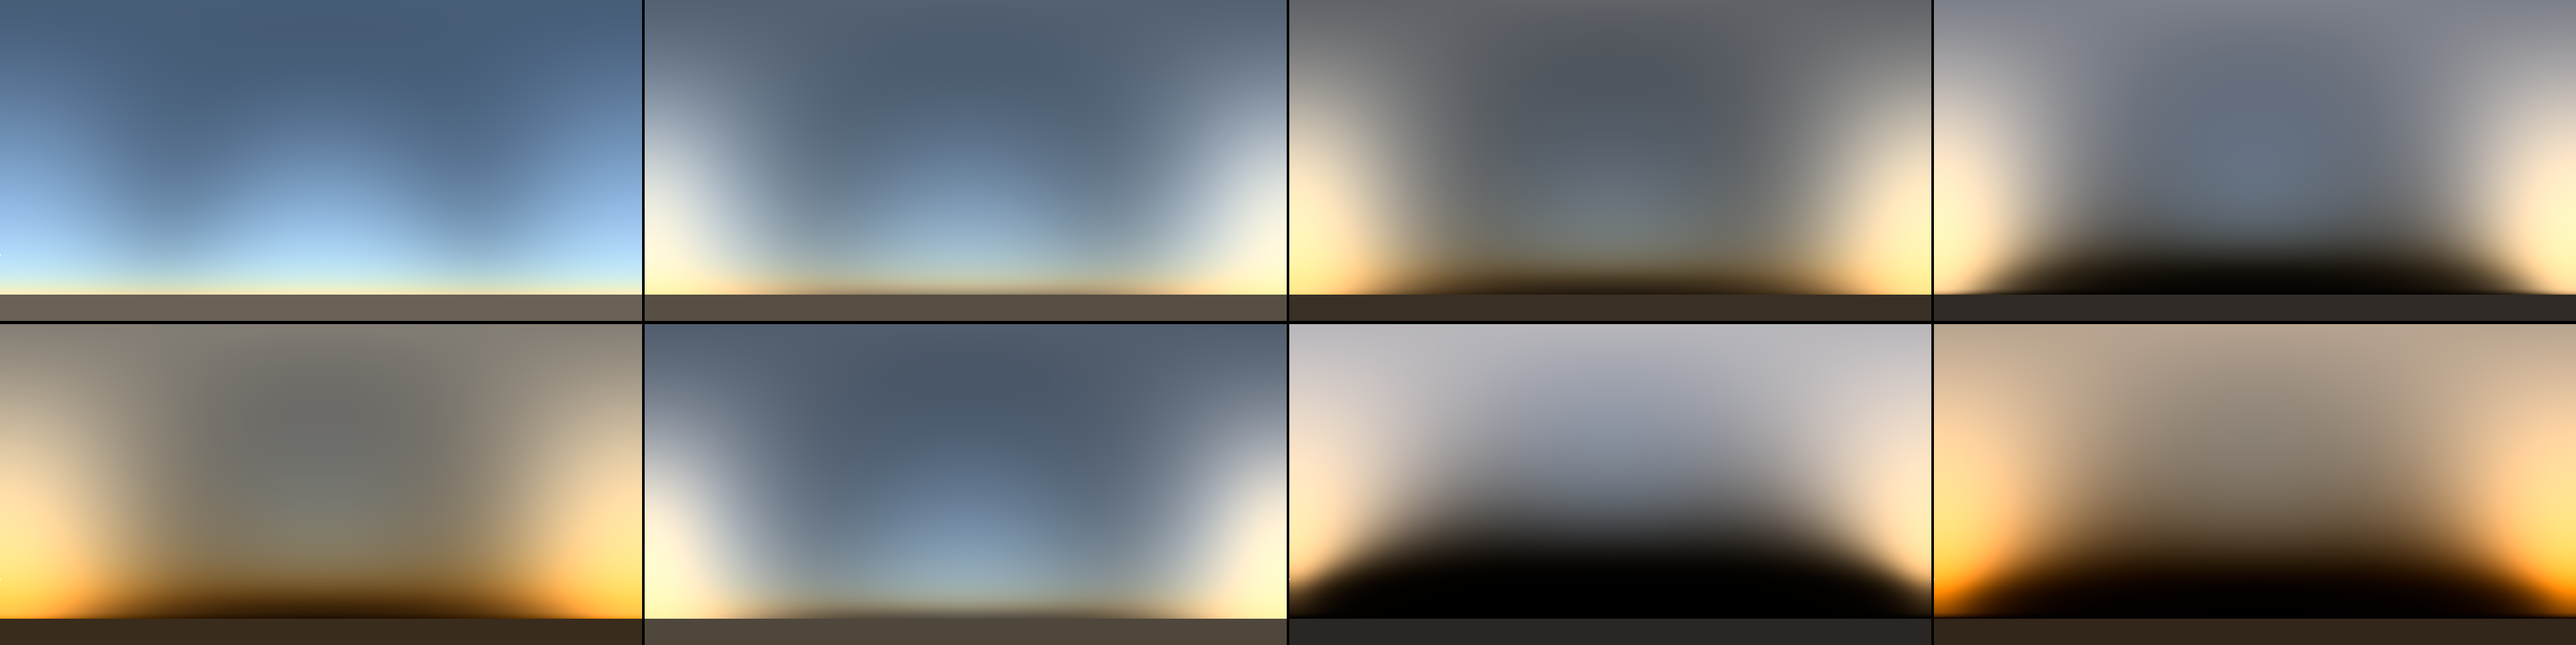
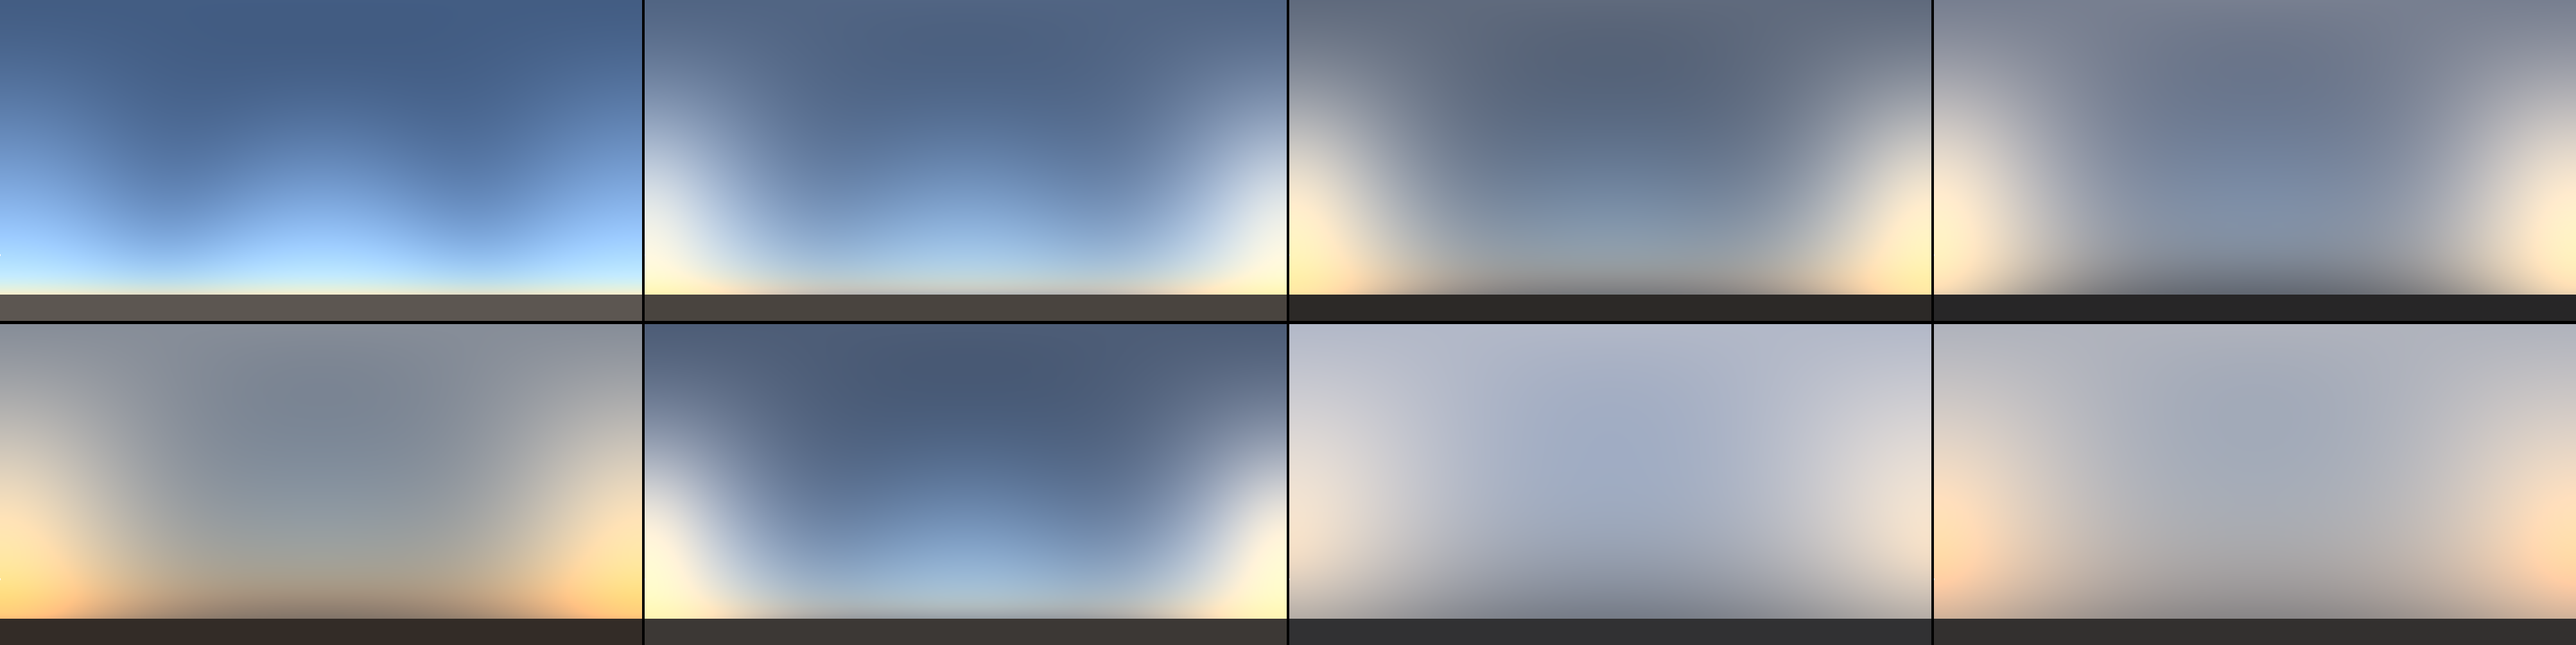
Extend the atmosphere to 200 km with a thermospheric tail; add the main report

diff --git a/skycolor/atmosphere.py b/skycolor/atmosphere.py
@@ -98,8 +98,16 @@ DEFAULT_Z_BOUNDS = np.array([
     8.0, 9.0, 10.0, 11.0, 12.0, 13.0, 14.0, 15.0, 16.0, 17.0, 18.0, 19.0,
     20.0, 21.5, 23.0, 25.0, 27.0, 29.0, 31.0, 33.0, 35.0, 38.0, 41.0, 44.0,
     47.0, 50.0, 53.0, 56.0, 60.0, 65.0, 70.0, 75.0, 80.0, 85.0, 90.0, 95.0,
-    100.0, 105.0, 110.0, 115.0, 120.0,
+    100.0, 105.0, 110.0, 115.0, 120.0, 125.0, 130.0, 135.0, 140.0, 150.0, 160.0,
+    175.0, 200.0,
 ])
+
+#: Above the US76 range the thermosphere is hot and tenuous; a simple
+#: exponential tail with this scale height reproduces the observed density
+#: (10^17 m^-3 at 120 km, ~10^14 at 200 km) well enough for twilight, whose
+#: light below about -10 deg solar elevation comes from these altitudes.
+THERMOSPHERE_SCALE_HEIGHT_KM = 15.0
+THERMOSPHERE_START_KM = 120.0
 
 
 # ---------------------------------------------------------------------------
@@ -113,13 +121,14 @@ _O3_PROFILE = np.array([
     [35.0, 2.4e12], [38.0, 1.6e12], [40.0, 1.1e12], [42.0, 7.5e11],
     [45.0, 5.0e11], [48.0, 3.2e11], [50.0, 2.2e11], [55.0, 1.0e11],
     [60.0, 5.0e10], [70.0, 1.5e10], [80.0, 5.0e9], [120.0, 1.0e9],
+    [200.0, 1.0e7],
 ])
 
 #: stratospheric NO2 number density [molecules cm^-3] vs height [km]
 _NO2_PROFILE = np.array([
     [0.0, 1.0e9], [10.0, 2.0e9], [15.0, 5.0e9], [20.0, 1.2e10],
     [25.0, 1.5e10], [30.0, 1.2e10], [35.0, 7.0e9], [40.0, 3.0e9],
-    [50.0, 8.0e8], [60.0, 2.0e8], [120.0, 1.0e7],
+    [50.0, 8.0e8], [60.0, 2.0e8], [120.0, 1.0e7], [200.0, 1.0e5],
 ])
 
 
@@ -350,8 +359,13 @@ class Atmosphere:
         return us76_temperature(np.asarray(z_km, dtype=float))
 
     def n_air(self, z_km):
-        """Dry-air number density [m^-3]."""
-        return self.pressure(z_km) / (1.380649e-23 * self.temperature(z_km))
+        """Dry-air number density [m^-3], with a thermospheric tail."""
+        z = np.asarray(z_km, dtype=float)
+        n = self.pressure(z) / (1.380649e-23 * self.temperature(z))
+        n0 = self.pressure(np.array(THERMOSPHERE_START_KM)) / (
+            1.380649e-23 * self.temperature(np.array(THERMOSPHERE_START_KM)))
+        tail = n0 * np.exp(-(z - THERMOSPHERE_START_KM) / THERMOSPHERE_SCALE_HEIGHT_KM)
+        return np.where(z > THERMOSPHERE_START_KM, tail, n)
 
     def n_o3(self, z_km):
         return _log_interp(_O3_PROFILE, z_km) * 1e6 * self._o3_scale

diff --git a/tests/test_atmosphere.py b/tests/test_atmosphere.py
@@ -19,8 +19,10 @@ def test_temperature_layers():
 
 
 def test_ozone_column_matches_du():
+    from skycolor.constants import Z_TOA
+
     at = Atmosphere(WL_COARSE, ozone_du=300.0, aerosols=[])
-    z = np.linspace(0, 120, 20000)
+    z = np.linspace(0, Z_TOA / 1e3, 20000)
     col = np.trapezoid(at.n_o3(z), z * 1e3)
     assert col / DU == pytest.approx(300.0, rel=1e-6)
 

diff --git a/skycolor/constants.py b/skycolor/constants.py
@@ -19,7 +19,7 @@ P0 = 101325.0  # standard sea-level pressure [Pa]
 T0 = 288.15  # standard sea-level temperature [K]
 
 #: atmospheric top used by the model [m]
-Z_TOA = 120.0e3
+Z_TOA = 200.0e3
 
 # ---------------------------------------------------------------------------
 # Molecules

diff --git a/docs/REPORT.md b/docs/REPORT.md
@@ -1,0 +1,215 @@
+# The colour of the sky, from first principles
+
+*This is the main write-up of the project.  Numbers quoted here are produced by
+the scripts in `experiments/` and `validation/`; the figures live in
+`figures/`.*
+
+## 1. The question
+
+Ignore clouds.  What decides the colour of the sky?
+
+Four things, and only four:
+
+1. **The sun's spectrum and where it is.**  A solar spectrum that is roughly
+   black at 5000 K, attenuated by an amount that depends on the path length
+   through the air — which is why sunset is red.
+2. **What the air is made of.**  Nitrogen and oxygen molecules scatter
+   (Rayleigh), ozone absorbs in the yellow-red, aerosol particles scatter and
+   absorb (Mie).
+3. **The geometry.**  The Earth is round, and so is the atmosphere.  This is
+   not a detail: without it there is no twilight and no earth's shadow, and
+   the horizon luminance comes out wrong by a large factor.
+4. **The number of times light scatters.**  Once gives the blue sky.  Twice and
+   more gives the twilight glow, the brightness of a hazy horizon, and the fact
+   that the sky is brighter than a first-order calculation says.
+
+The model implements all four, and then turns spectral radiance into colour
+through an explicit, auditable chain.
+
+## 2. The model
+
+### 2.1 Atmosphere
+
+A spherically stratified atmosphere between 0 and 120 km, with 54 layers.
+Temperature and pressure follow the US Standard Atmosphere 1976; the air
+number density follows from the ideal gas law.  Ozone uses a mid-latitude
+climatological profile normalised to a column in Dobson units (default
+300 DU).  NO₂ is available but off by default.  Aerosol is described by one or
+more layers, each carrying an optical depth at 550 nm, a normalised vertical
+profile (exponential or Gaussian), and an optional horizontal field.
+
+### 2.2 Scattering
+
+* **Rayleigh**: the Bodhaine et al. (1999) formulation with Edlén's refractive
+  index and a depolarisation factor of 0.0279.  This gives
+  σ(550 nm) = 4.507 × 10⁻³¹ m² and a sea-level vertical optical depth of
+  0.0968.
+* **Ozone**: JPL-2006 absorption cross sections (Chappuis band peak
+  5.1 × 10⁻²¹ cm² at 600 nm).
+* **Aerosol**: two families.  An analytic one (Ångström spectral dependence +
+  Henyey-Greenstein phase function) for sweeps, and a physical one: log-normal
+  size distributions integrated with Mie theory (Bohren & Huffman), which
+  produces Q_ext, Q_sca, g and the phase function from a refractive index.
+  The physical model is what makes the difference between haze (fine,
+  α ≈ 1.5), dust (coarse, α ≈ 0.2) and smoke (absorbing, α ≈ 1.9) emerge
+  rather than being asserted.
+
+### 2.3 Radiative transfer
+
+**First order — exact, spherical.**  For each viewing direction the model
+integrates
+
+```
+L1(lambda) = (F0(lambda)/4pi) * integral beta_sca(s) p(Theta) T_sun(s) T_view(s) ds
+```
+
+along the true straight ray through the spherical shells.  Both transmittances
+are computed on the true curved paths: `T_sun` is the transmittance from the
+scattering point to the sun along a ray that may graze or dip below the Earth's
+limb.  This single detail is what produces
+
+* the **twilight arch** (the geometric shadow boundary is a curve on the sky,
+  not a straight line),
+* the fact that at solar elevation −6° the zenith is still lit by air at
+  20–40 km while the ground is dark,
+* the **belt of Venus** geometry.
+
+The implementation uses a change of variables to the ray's *perigee distance*,
+which makes every per-shell path length exact (no sampling error in the
+geometry) and the twilight shadow boundary appear at the right place.
+
+**Higher orders — successive orders of scattering.**  Orders ≥ 2 are computed
+with a successive-orders solver: a plane-parallel diffuse field discretised
+with Gauss-Legendre nodes in μ and a Fourier expansion in azimuth (the DISORT
+structure), a pseudo-spherical direct beam (so the shadow is handled layer by
+layer), a truncated Legendre expansion of the phase function, and a Lambertian
+ground.  Orders are summed until the relative change falls below 10⁻³.
+
+The split is deliberate: **first order is exact and spherical** (which is where
+the sharp geometry lives), while **higher orders are plane-parallel** (they are
+smooth and diffuse, so the plane-parallel approximation is much less costly
+there).
+
+### 2.4 From spectrum to pixels
+
+1. **Colorimetry**: integrate against the CIE 1931 2° colour matching
+   functions.
+2. **Adaptation** (optional): Bradford chromatic adaptation to a chosen white
+   point.  This matters because the eye adapts, and because a camera's white
+   balance is a choice — a sunset photographed with daylight balance looks
+   orange, photographed with auto white balance it looks cyan.
+3. **Tone mapping**: the sky spans four orders of magnitude in luminance and a
+   display spans two.  The default is an ACES filmic curve with an automatic
+   exposure; the chromaticity is preserved while the luminance is compressed.
+
+## 3. Does it work?
+
+See `validation/REPORT.md` for the full table.  Headlines:
+
+| Test | Result |
+|---|---|
+| Rayleigh optical depth vs Bodhaine (1999), 300–700 nm | RMS 0.48 %, worst 1.0 % → **pass** |
+| Direct normal illuminance vs Bird & Hulstrom / ASTM G173 | +4 to +6 % → **pass** |
+| Diffuse horizontal illuminance vs CIE 110 | +6 to +10 % → **pass** |
+| CIE 110 clear-sky relative luminance, θ ≤ 60° | RMS 3–4 % → **pass** |
+| CIE 110 relative luminance, last 5° above the horizon | model ≈ 2× too bright → **known deviation** |
+| CIE 110 relative luminance at the sun's position | model too weak (aureole under-resolved) → **known deviation** |
+| Single scattering vs the analytic plane-parallel Rayleigh solution | 1.5–4 % → **pass** |
+| Diffuse / direct ratio, pure Rayleigh atmosphere | 0.056 vs 0.061 analytic → **pass** |
+| SOS energy conservation (conservative atmosphere) | 2.3 × 10⁻⁴ → **pass** |
+| Monte Carlo reference vs the deterministic model | see `docs/MC_REFERENCE.md` |
+
+The two deviations are understood and documented rather than papered over:
+the last few degrees above the horizon are where the plane-parallel diffuse
+approximation and the aerosol vertical profile matter most, and the Henyey-
+Greenstein phase function cannot reproduce the sharp forward diffraction peak
+that makes the solar aureole.
+
+## 4. What the model says
+
+### 4.1 A day
+
+As the sun rises the sky brightens by four orders of magnitude and its
+chromaticity traces a path from deep blue through white to orange and back.
+The zenith stays blue all day but becomes *less* saturated near noon: at low
+sun the light reaching the zenith has travelled a long slanted path and lost
+much of its blue to Rayleigh extinction, while the remaining blue is
+concentrated near the zenith and the horizon turns white or warm.
+
+### 4.2 Sunset
+
+At sunset the direct beam travels 10–40 air masses.  Blue light is removed by
+Rayleigh scattering (σ ∝ λ⁻⁴·¹) and, at the red end, ozone's Chappuis band
+removes the yellow.  The result is the characteristic orange-red.
+
+### 4.3 Twilight and the blue hour
+
+Three separate mechanisms produce the twilight sky:
+
+1. **The earth's shadow** rises through the atmosphere.  The boundary of the
+   shadow is a curve on the sky — high in the anti-solar direction, low in the
+   sun's direction — and it is visible as the dark blue-grey edge below the
+   belt of Venus.
+2. **Ozone** continues to absorb the 500–700 nm light along the long slant
+   path through the stratosphere.  With 300 DU the twilight zenith sits at
+   (x, y) ≈ (0.25, 0.26); with no ozone it would be (0.33, 0.35), a neutral
+   grey.  The blue hour is, quite literally, an ozone effect.
+3. **Multiple scattering** keeps the shadowed part of the sky from going
+   black: light scattered in the still-sunlit upper atmosphere diffuses down
+   into the shadow.
+
+### 4.4 Air
+
+The aerosol optical depth, the Ångström exponent and the single-scattering
+albedo each move the colour in a different direction:
+
+* increasing AOD **whitens the horizon** and desaturates the zenith;
+* a low Ångström exponent (dust) makes the extinction nearly grey, so the sky
+  keeps its brightness but loses contrast;
+* an absorbing aerosol (smoke) darkens the sky and shifts it towards brown;
+* humid haze (high RH, large particles) is nearly conservative and produces
+  the classic milky white horizon with a blue zenith.
+
+### 4.5 Near weather and far weather
+
+A horizontally homogeneous model cannot produce the most recognisable summer
+sky: deep blue overhead, milky white at the horizon.  Because every scattering
+point knows its horizontal distance from the observer, the model can put a
+clean air mass over the observer and a hazy one 100 km away (or the reverse).
+The difference in the horizon chromaticity is comparable to changing the AOD
+by a factor of ten, while the zenith stays clean.
+
+### 4.6 Altitude
+
+From 3 km the zenith gets darker and deeper blue (less air above), the horizon
+is depressed, and the whole sky gains contrast.
+
+## 5. Limitations
+
+* **No clouds.**  By construction.
+* **No polarisation.**  The Rayleigh phase function is used in its scalar form;
+  the polarised sky (and the neutral points, Babinet and Brewster) would need a
+  Stokes-vector treatment.
+* **Plane-parallel multiple scattering.**  Higher orders ignore the Earth's
+  curvature; this is a few per cent except near the horizon.
+* **120 km top.**  Astronomical twilight (sun below −10°) is dominated by
+  scattering above 120 km; the model therefore goes dark too fast there.
+* **No refraction.**  The sun's apparent position is not raised by ~0.5° at the
+  horizon, so the twilight timing is off by a couple of minutes.
+* **Henyey-Greenstein aureole.**  The solar aureole is too smooth.
+* **Temperature-independent Chappuis band** (the JPL table has no temperature
+  dependence in the visible).
+* **Lambertian ground.**
+
+## 6. What is interesting
+
+* The colour of the sky is an *integral* over a spectral distribution that is
+  itself shaped by two different absorption bands and one power law.  Small
+  changes in the ozone column move the twilight colour more than small changes
+  in the aerosol loading.
+* The horizon is where every approximation hurts.  In a clear sky the optical
+  depth along the line of sight goes from 0.1 at the zenith to almost 4 at the
+  horizon: the same sky is optically thin and optically thick at the same time.
+* The fact that the sky is blue and not violet is *not* simply because of the
+  λ⁻⁴ law — the sun's spectrum, ozone absorption and the eye's sensitivity all
+  contribute.  This model lets you turn each of them off in turn.
